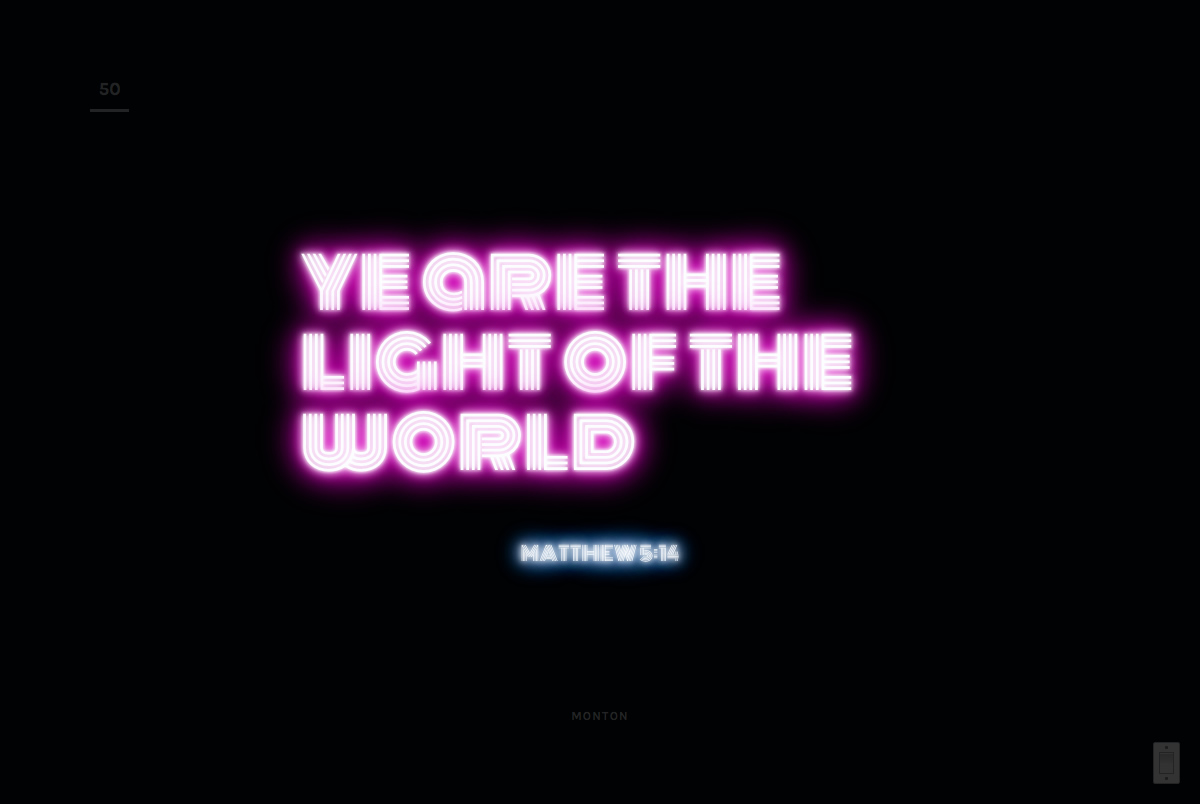
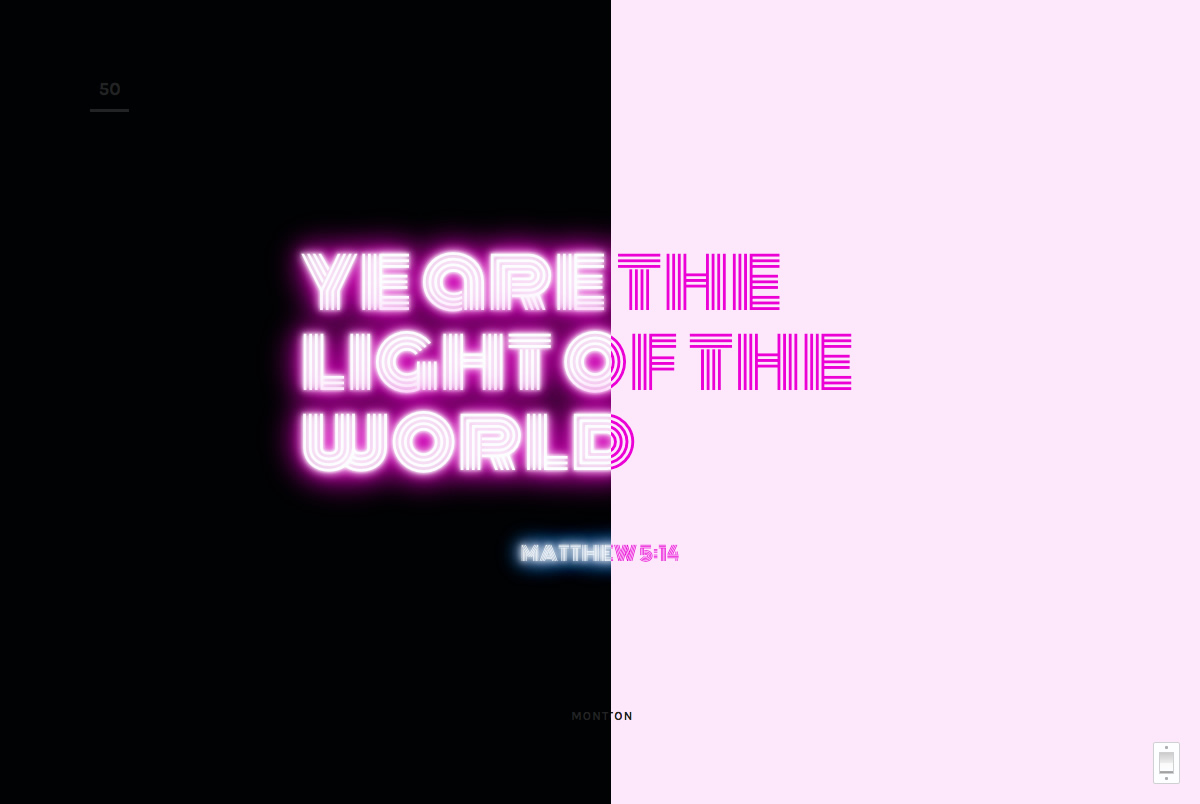
Day 50 fix preview and font reference.

diff --git a/index.html b/index.html
@@ -10,7 +10,7 @@
   <style>
    @charset "UTF-8";.about-title-wrap,.day-info,.day-number,.footer{text-align:center}a,aside,b,blockquote,body,cite,div,em,figcaption,figure,footer,h1,h2,h3,h4,h5,h6,header,html,i,img,li,nav,ol,p,q,section,small,span,strong,sub,sup,time,ul{font:inherit;vertical-align:baseline;border:0;padding:0;margin:0}.about-description,.container,.day-scripture{margin-left:auto;margin-right:auto}.day-info,.day-number,b,strong{font-weight:700}.about-title-head,.about-title-tail,em,i{font-style:italic}article,aside,details,figcaption,figure,footer,header,nav,section{display:block}body{line-height:1;font-family:KarlaLocal,"Open Sans",Helvetica,Arial,sans-serif;color:#222324;text-rendering:optimizeLegibility;-webkit-font-variant-ligatures:common-ligatures;font-variant-ligatures:common-ligatures;-webkit-font-feature-settings:"liga";font-feature-settings:"liga"}ol,ul{list-style:none}blockquote,q{quotes:none}blockquote:after,blockquote:before,q:after,q:before{content:'';content:none}@font-face{font-family:KarlaLocal;font-weight:400;font-style:normal;src:local("Karla"),local("Karla-Regular")}@font-face{font-family:KarlaLocal;font-weight:700;font-style:normal;src:local("Karla"),local("Karla-Bold")}@font-face{font-family:PlayfairDisplayLocal;font-weight:400;font-style:normal;src:local("Playfair Display"),local("PlayfairDisplay-Regular")}@font-face{font-family:PlayfairDisplayLocal;font-weight:700;font-style:normal;src:local("Playfair Display"),local("PlayfairDisplay-Bold")}@font-face{font-family:PlayfairDisplayLocal;font-weight:700;font-style:italic;src:local("Playfair Display"),local("PlayfairDisplay-BoldItalic")}.fonts-loaded-100 body{font-family:Karla,KarlaLocal,"Open Sans",Helvetica,Arial,sans-serif}.fonts-timeout-100 body{font-family:KarlaLocal,Karla,"Open Sans",Helvetica,Arial,sans-serif}a{color:#3498db;text-decoration:none}.footer,.footer a{color:#fdfeff}a:hover{text-decoration:underline}.container{max-width:64em}.footer{font-size:.875em;background-color:#222324;padding-top:1.5625em;padding-bottom:1.5625em}@media only screen and (min-width:40em){.footer{padding-top:1.875em;padding-bottom:1.875em}}@media only screen and (min-width:52em){.footer{padding-top:2.5em;padding-bottom:2.5em}}.day-number{color:#222324;border-bottom:3px solid #222324;display:inline-block;width:2.1875em;padding-bottom:.625em;margin-bottom:3.5em}.day--14 .day-number,.day--15 .day-number,.day--2 .day-number,.day--5 .day-number,.day--9 .day-number,.day-number--white{color:#fdfeff;border-bottom-color:#fdfeff}.day-scripture{max-width:80em}.day-scripture::after{clear:both;content:"";display:table}.day-info{font-size:.75em;letter-spacing:.1em;text-transform:uppercase;margin-top:5.33333em}.day-reference{display:block}.day-font{color:#8a8b8c;line-height:1.4}.day-font-link{color:#222324}.about,.day{overflow:hidden;padding:2.5em .9375em}@media only screen and (min-width:30em){.about,.day{padding:3.125em 1.875em}.day-number{margin-bottom:4.0625em}.day-info{margin-top:6.25em}}@media only screen and (min-width:40em){.about,.day{padding:3.75em 3.4375em}.day-number{font-size:1.0625em;margin-bottom:4.23529em}.day-info{margin-top:7em}}@media only screen and (min-width:52em){.about,.day{padding:4.375em 4.6875em}.day-number{margin-bottom:4.8125em}.day-info{margin-top:7.58333em}}@media only screen and (min-width:64em){.about,.day{padding:5em 5.625em}.day-number{font-size:1.125em;margin-bottom:4.44444em}.day-info{margin-top:8em}}.about{background-color:#f2f3f4}.about-title{font-family:PlayfairDisplayLocal,"Times New Roman",Times,serif;margin-bottom:1.25em}.fonts-loaded-100 .about-title{font-family:"Playfair Display",PlayfairDisplayLocal,"Times New Roman",Times,serif}.fonts-timeout-100 .about-title{font-family:PlayfairDisplayLocal,"Playfair Display","Times New Roman",Times,serif}.about-title-head{font-size:2.5em;font-weight:700;display:block}.about-title-tail{font-size:1em;letter-spacing:.22em;text-transform:uppercase;position:relative;left:.0625em}.about-description{color:#454647;line-height:1.3;letter-spacing:-.02em;max-width:31.25em}.about-description p:first-child{margin-bottom:.5em}.day--50{background-color:rgba(242,13,213,.1);position:relative}.day--50 .day-scripture{padding-top:1em;padding-bottom:1em}@media only screen and (min-width:30em){.day--50 .day-scripture{padding-top:1.5em;padding-bottom:1.5em}}@media only screen and (min-width:40em){.container--about{display:-webkit-flex;display:-ms-flexbox;display:flex;-webkit-justify-content:center;-ms-flex-pack:center;justify-content:center}.about-title-wrap{text-align:right;-webkit-flex:0 0 13.125em;-ms-flex:0 0 13.125em;flex:0 0 13.125em;margin-right:3.125em}.about-description{-webkit-flex:1;-ms-flex:1;flex:1;max-width:25em;margin-left:0;margin-right:0}.about-title{margin-top:-.9375em;margin-bottom:0}.about-title-head{font-size:3em}.about-title-tail{font-size:1.1875em;letter-spacing:.23em;left:.18421em}.day--50 .day-scripture{padding-top:2em;padding-bottom:2em}}@media only screen and (min-width:52em){.about-title-head{font-size:4em}.about-title-tail{font-size:1.375em;letter-spacing:.355em;left:.27273em}.about-title-wrap{-webkit-flex-basis:16.875em;-ms-flex-preferred-size:16.875em;flex-basis:16.875em;margin-right:4.375em}.day--50 .day-scripture{padding-top:2.5em;padding-bottom:2.5em}}.day--50 .day-text{font-family:Monoton,sans-serif;color:#f20dd5;text-transform:lowercase;-moz-osx-font-smoothing:grayscale;-webkit-font-smoothing:antialiased}.day--50 .day-reference{margin-top:2em;text-align:center}.day--50 .day-reference-link{text-transform:uppercase;color:#f20dd5}@media only screen and (min-width:30em){.day--50 .day-reference-link{font-size:1.0625em}}@media only screen and (min-width:40em){.day--50 .day-reference{margin-top:3em}.day--50 .day-reference-link{font-size:1.125em}}@media only screen and (min-width:52em){.day--50 .day-reference-link{font-size:1.1875em}}@media only screen and (min-width:64em){.day--50 .day-scripture{padding-top:3em;padding-bottom:3em}.day--50 .day-reference{margin-top:4em}.day--50 .day-reference-link{font-size:1.25em}}.day--50.is-on .day-reference-link{color:#fdfeff;-webkit-animation:day-50-flicker 2s 1 forwards;animation:day-50-flicker 2s 1 forwards;text-shadow:0 0 .3125em #fdfeff,0 0 .625em #fdfeff,0 0 .9375em #fdfeff,0 0 1.25em #4495fb,0 0 1.5625em #4495fb,0 0 1.875em #4495fb,0 0 2.1875em #4495fb,0 0 2.5em #4495fb}.day--50.is-on .day-50-text{-webkit-animation:day-50-flicker 2.4s 1 forwards;animation:day-50-flicker 2.4s 1 forwards;text-shadow:0 0 .125em #fdfeff,0 0 .25em #fdfeff,0 0 .375em #fdfeff,0 0 .5em #f20dd5,0 0 .825em #f20dd5,0 0 1.15em #f20dd5,0 0 1.475em #f20dd5,0 0 1.8em #f20dd5}.day--50.is-on .day-50-switch{border-color:#222324;background-color:#333}.day--50.is-on .day-50-switch-label{border-color:#222324}.day--50.is-on .day-50-switch::after,.day--50.is-on .day-50-switch::before{background-color:#1b1c1d}.day-50-text{font-size:2.5em;max-width:7.5em;margin-left:auto;margin-right:auto;display:block}@media only screen and (min-width:30em){.day-50-text{font-size:3.125em;max-width:7.5em}.day--50.is-on .day-50-text{-webkit-animation:day-50-flicker 2.4s 1 forwards;animation:day-50-flicker 2.4s 1 forwards;text-shadow:0 0 .1em #fdfeff,0 0 .2em #fdfeff,0 0 .3em #fdfeff,0 0 .4em #f20dd5,0 0 .66em #f20dd5,0 0 .92em #f20dd5,0 0 1.18em #f20dd5,0 0 1.44em #f20dd5}}@media only screen and (min-width:40em){.day-50-text{font-size:3.75em;max-width:7.5em}.day--50.is-on .day-50-text{-webkit-animation:day-50-flicker 2.4s 1 forwards;animation:day-50-flicker 2.4s 1 forwards;text-shadow:0 0 .08333em #fdfeff,0 0 .16667em #fdfeff,0 0 .25em #fdfeff,0 0 .33333em #f20dd5,0 0 .55em #f20dd5,0 0 .76667em #f20dd5,0 0 .98333em #f20dd5,0 0 1.2em #f20dd5}}@media only screen and (min-width:52em){.day-50-text{font-size:4.375em;max-width:7.5em}.day--50.is-on .day-50-text{-webkit-animation:day-50-flicker 2.4s 1 forwards;animation:day-50-flicker 2.4s 1 forwards;text-shadow:0 0 .07143em #fdfeff,0 0 .14286em #fdfeff,0 0 .21429em #fdfeff,0 0 .28571em #f20dd5,0 0 .47143em #f20dd5,0 0 .65714em #f20dd5,0 0 .84286em #f20dd5,0 0 1.02857em #f20dd5}}@media only screen and (min-width:64em){.day-50-text{font-size:5em;max-width:7.5em}.day--50.is-on .day-50-text{-webkit-animation:day-50-flicker 2.4s 1 forwards;animation:day-50-flicker 2.4s 1 forwards;text-shadow:0 0 .0625em #fdfeff,0 0 .125em #fdfeff,0 0 .1875em #fdfeff,0 0 .25em #f20dd5,0 0 .4125em #f20dd5,0 0 .575em #f20dd5,0 0 .7375em #f20dd5,0 0 .9em #f20dd5}}.day--50.is-on{background-color:#010203}.day--50.is-on .day-text{color:#fdfeff}@-webkit-keyframes day-50-flicker{0%,11%,19%,24%,4%,40%{opacity:.5}10%,6%{opacity:.45}14%,8%{opacity:.55}12%,20%,38%,46%{opacity:.65}16%,44%,68%,72%{opacity:.7}17%,26%,58%{opacity:.75}28%,42%,56%{opacity:.6}60%,97%{opacity:.8}100%,70%,95%{opacity:1}93%{opacity:.9}}@keyframes day-50-flicker{0%,11%,19%,24%,4%,40%{opacity:.5}10%,6%{opacity:.45}14%,8%{opacity:.55}12%,20%,38%,46%{opacity:.65}16%,44%,68%,72%{opacity:.7}17%,26%,58%{opacity:.75}28%,42%,56%{opacity:.6}60%,97%{opacity:.8}100%,70%,95%{opacity:1}93%{opacity:.9}}.day-50-switch{background:#fdfeff;padding:.5625em .3125em;border:1px solid #cfd0d1;border-radius:2px;display:inline-block;position:absolute;right:1.25em;bottom:1.25em}.day-50-switch::after,.day-50-switch::before{width:.1875em;height:.1875em;border-radius:100%;background:#adaeaf;content:"";display:block;position:absolute;left:.6875em}.day-50-switch::before{top:.1875em}.day-50-switch::after{bottom:.1875em}.day-50-switch-checkbox{display:none}.day-50-switch-label{width:.8125em;height:1.25em;background:linear-gradient(to bottom,#ccc 0,#eee 50%,#fafafa 50%,#fdfeff 92%,#adadad 92%,#9d9d9d);border:1px solid #cfd0d1;display:block;cursor:pointer}.day-50-switch-checkbox:checked+.day-50-switch-label{background:linear-gradient(to bottom,#323232,#333 5%,#292929 5%,#303030 50%,#323232 50%,#333)}
   </style>
-  <meta name="mainCSS" content="assets/css/screen.css?20150920">
+  <meta name="mainCSS" content="assets/css/screen.css?20150920-2">
 
   <script>
     /*! loadCSS: load a CSS file asynchronously. [c]2014 @scottjehl, Filament Group, Inc. Licensed MIT */
@@ -26,7 +26,7 @@
 
   <noscript>
     <link rel="stylesheet" href="//fonts.googleapis.com/css?family=Karla:400,700|Playfair+Display:400,400italic,700,700italic,900|Monoton|Playfair+Display+SC:700italic|Poppins|Cinzel|Work+Sans:600|Domine|Suranna|Yantramanav:900|Montserrat+Alternates|Istok+Web:400,700|Sacramento|Questrial|Vidaloka|Source+Sans+Pro:400,900|Neuton|Oxygen:700|VT323|Chonburi|Josefin+Slab|Droid+Serif|Exo|Lustria|Permanent+Marker|Vollkorn|Arimo|Londrina+Sketch|Francois+One|Bangers|Patrick+Hand|League+Script|Quicksand|Prata|Fira+Sans:500|Amiri:400,700|Fjalla+One|Arapey|Hind:700|Gentium+Book+Basic:400,700|EB+Garamond|Share+Tech+Mono|PT+Serif:400,700italic|Montserrat|Inconsolata:700|Codystar|Old+Standard+TT:400,400italic|Oswald:300,400|Ovo|Lato:100,400|Libre+Baskerville:400italic|Vast+Shadow|Amatic+SC|PT+Mono|Abril+Fatface|Roboto:100,300|Crimson+Text:400,400italic,700|Glegoo:400,700">
-    <link rel="stylesheet" href="assets/css/screen.css?20150920">
+    <link rel="stylesheet" href="assets/css/screen.css?20150920-2">
   </noscript>
 
   <link rel="canonical" href="https://jonsuh.com/100-days-of-scriptures/">
@@ -101,7 +101,7 @@
       </blockquote>
     </section>
     <aside class="day-info">
-      <div class="day-font"><a href="https://www.google.com/fonts/specimen/Monton" class="day-font-link">Monton</a></div>
+      <div class="day-font"><a href="https://www.google.com/fonts/specimen/Monoton" class="day-font-link">Monoton</a></div>
     </aside>
   </article>
   <script>
